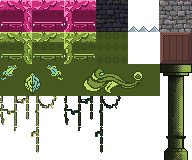
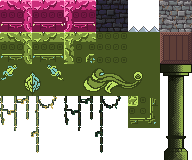
Updated earth tiles with corner tiles

Changed region(s): [[0.6562, 0.5938, 0.8438, 0.8125], [0.6562, 0.1875, 0.8438, 0.4062], [0.3125, 0.25, 0.5, 0.4062]]

diff --git a/src/scenes/s1r1.js b/src/scenes/s1r1.js
@@ -184,8 +184,8 @@ export default class s1r1 extends Phaser.Scene {
 		this.physics.add.collider(this.enemyGroup, this.rock);
 
 
-		this.lever1 = new Lever(this, 40, 598, 'lever');
-		this.lever2 = new Lever(this, 60, 220, 'lever');
+		this.lever1 = new Lever(this, 45, 598, 'lever');
+		this.lever2 = new Lever(this, 43, 220, 'lever');
 		this.lever2.angle = 90;
 
 

diff --git a/src/config/config.js b/src/config/config.js
@@ -12,7 +12,7 @@ export default {
   physics: {
     default: 'arcade',
     arcade: {
-		debug: true,
+		debug: false,
         gravity: { y: 0 }
     }
   },
